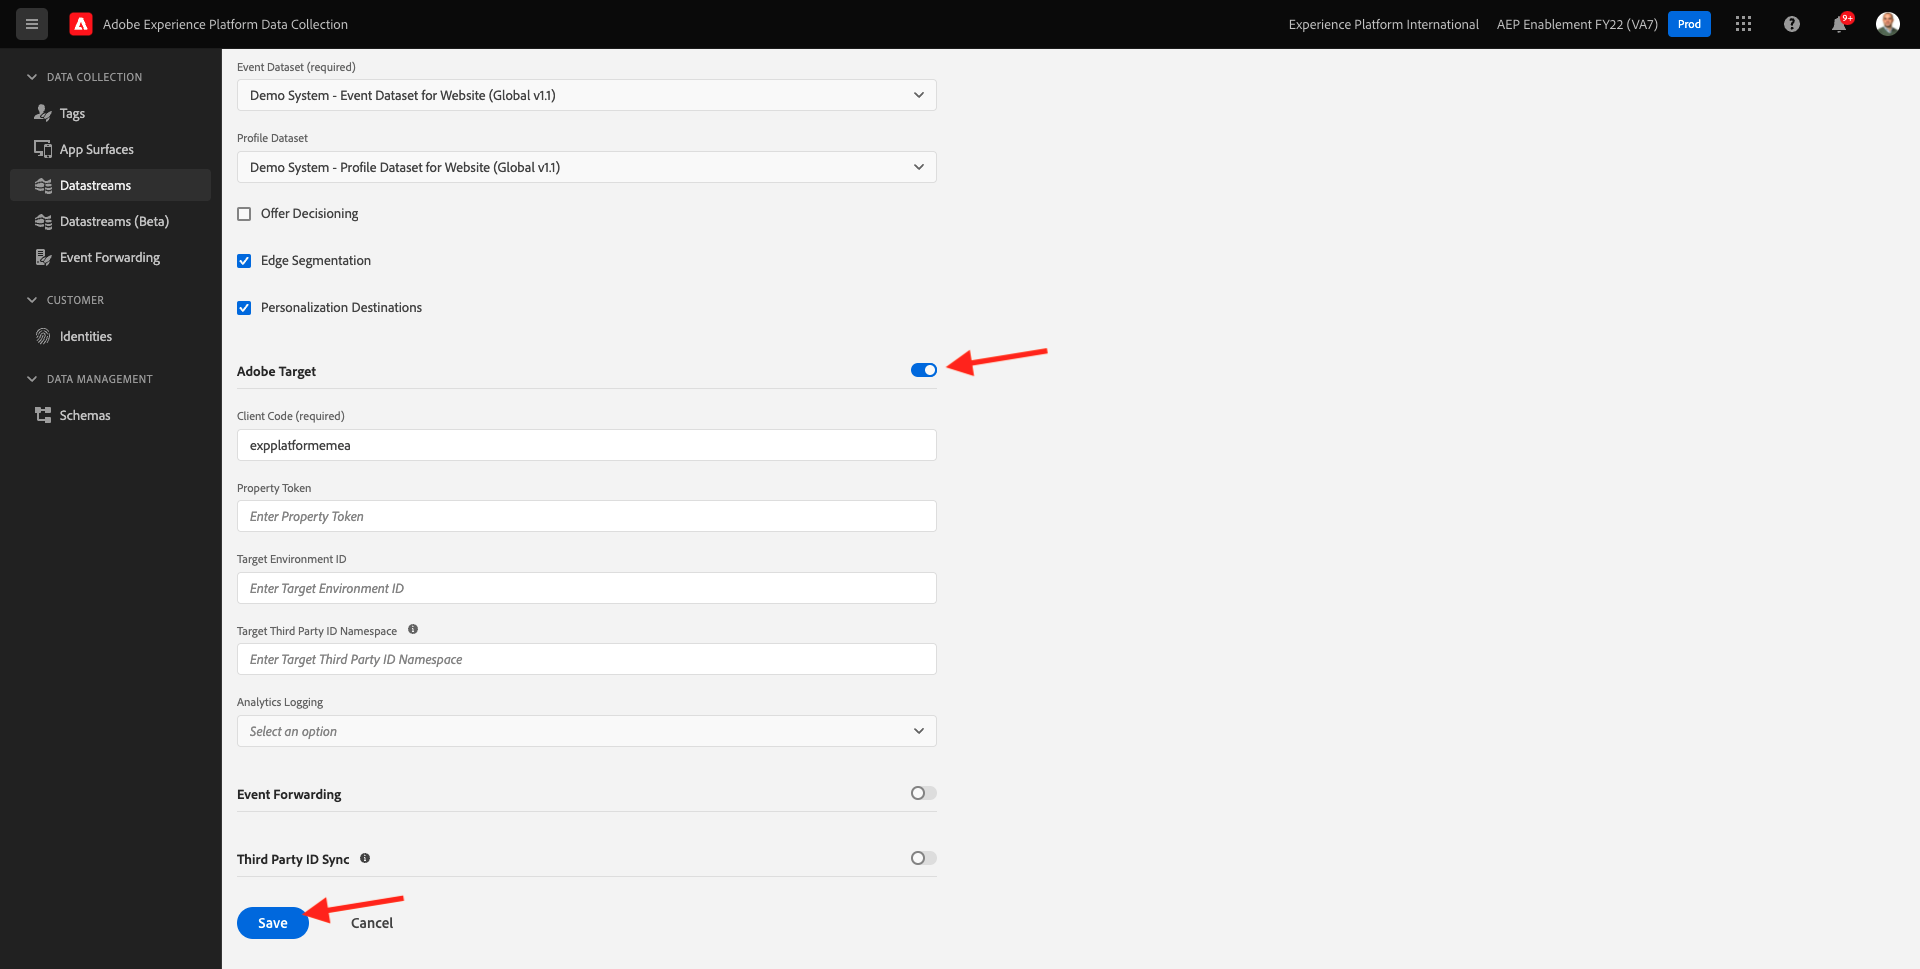
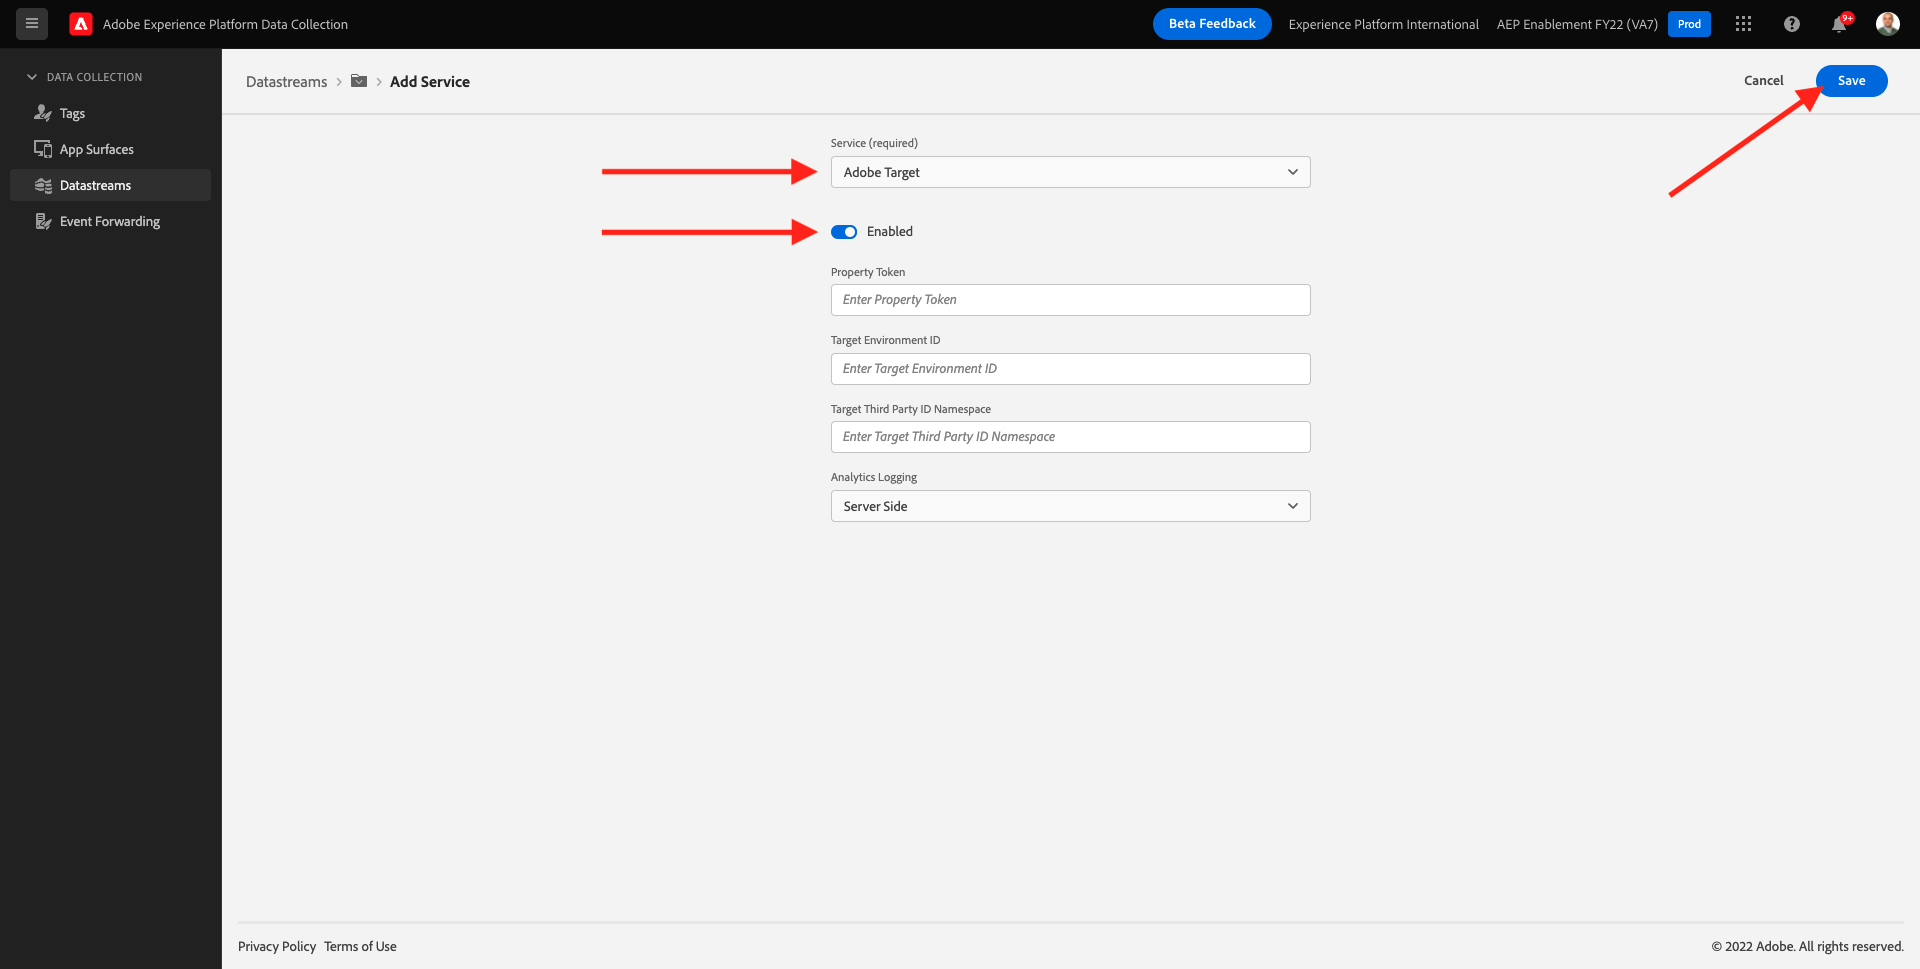
update to module 6

diff --git a/help/tutorial-comprehensive-technical-v22/modules/module6/ex5.md b/help/tutorial-comprehensive-technical-v22/modules/module6/ex5.md
@@ -33,19 +33,25 @@ In Datastreams, search for your datastream which is named `--demoProfileLdap-- -
 
 ![Data Ingestion](./images/atdestds3.png)
 
-Next, click the **Developement Environment** to open it.
+You'll then see this, click **...** next to **Adobe Experience Platform** and then click **Edit**.
 
 ![Data Ingestion](./images/atdestds4.png)
 
-Scroll down to Adobe Target, enable the toggle for Adobe Target and fill out your Adobe Target client code. Click **Save**.
+Check the checkboxes for both **Edge Segmentation** and **Personalization Destinations**. Click **Save**.
 
->[!NOTE]
->
-> Adobe Target client code is an IMS Org-specific field. Please verify what your Adobe Target client code is and fill out the correct client code.
+![Data Ingestion](./images/atdestds4a.png)
+
+Next, click **+ Add Service**.
+
+![Data Ingestion](./images/atdestds4b.png)
+
+Select the service **Adobe Target**. Click **Save**.
 
 ![Data Ingestion](./images/atdestds5.png)
 
 Your datastream is now configured for Adobe Target.
+
+![Data Ingestion](./images/atdestds5a.png)
 
 ## 6.5.2 Configure your Adobe Target destination
 
